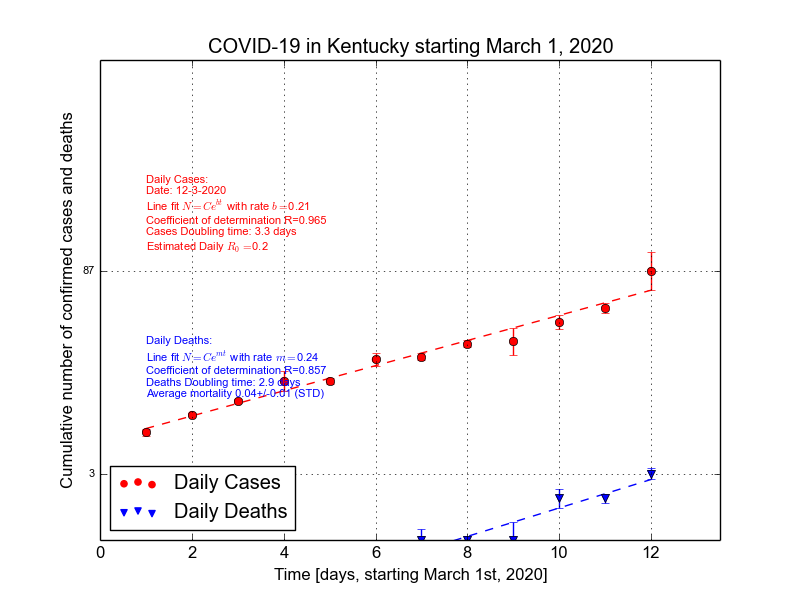
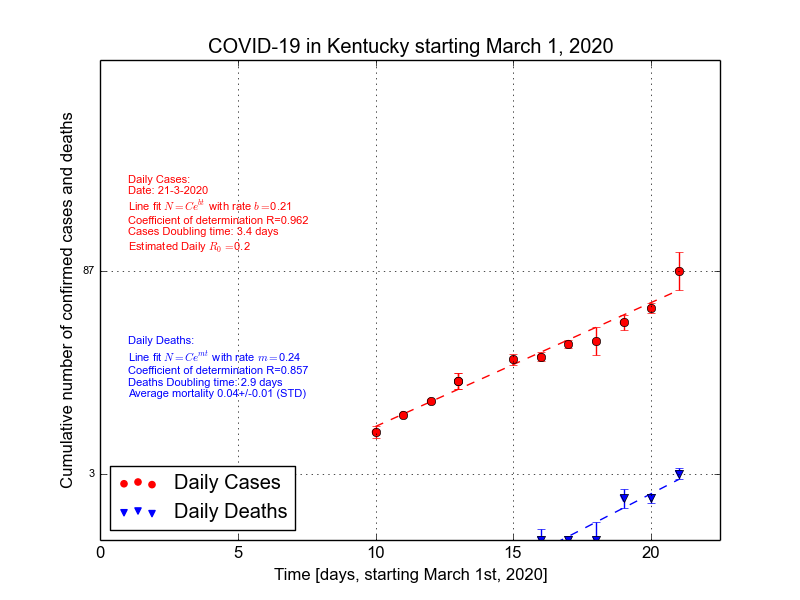
fixed us states plots

diff --git a/cov_lin_models_refactored.py b/cov_lin_models_refactored.py
@@ -211,7 +211,8 @@ def plot_countries(datasets, month, country, download):
         for c in datasets[3] if c != 'NN'
     ]
     # pad for unavailable data from 1st of month
-    if actual_days[0] != 1 and actual_days[0] < 10:
+    print(actual_days)
+    if actual_days[0] != 1 and actual_days[0] < 15:
         x_cases = actual_days
     else:
         x_cases = [float(n) for n in range(1, len(cases) + 1)]
